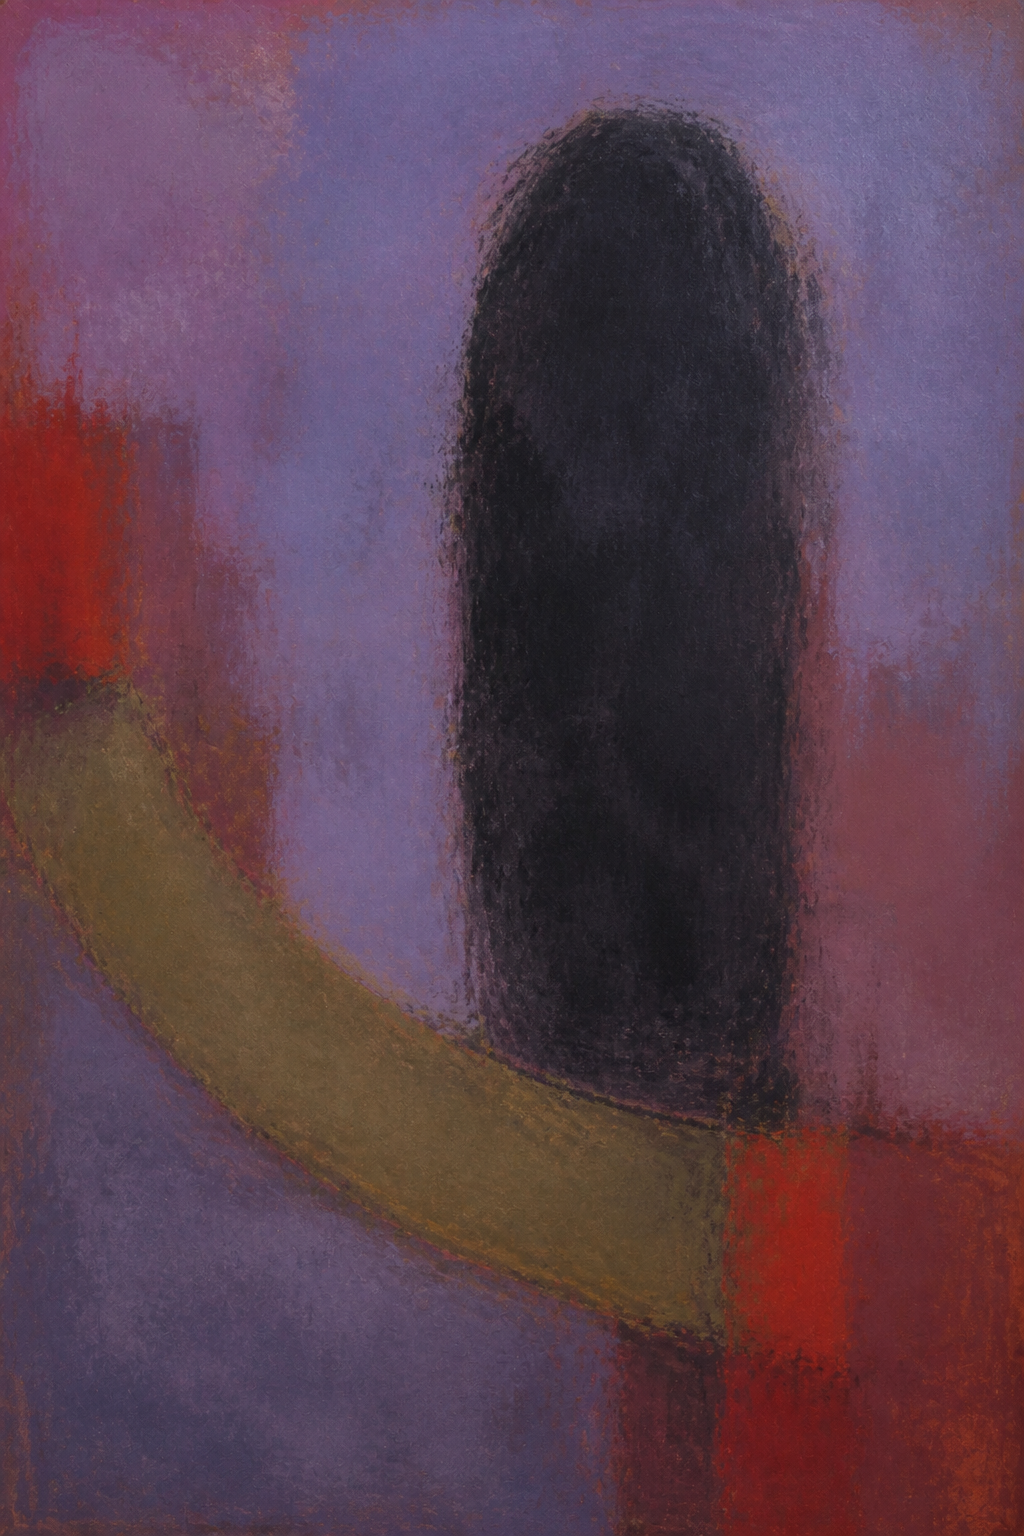
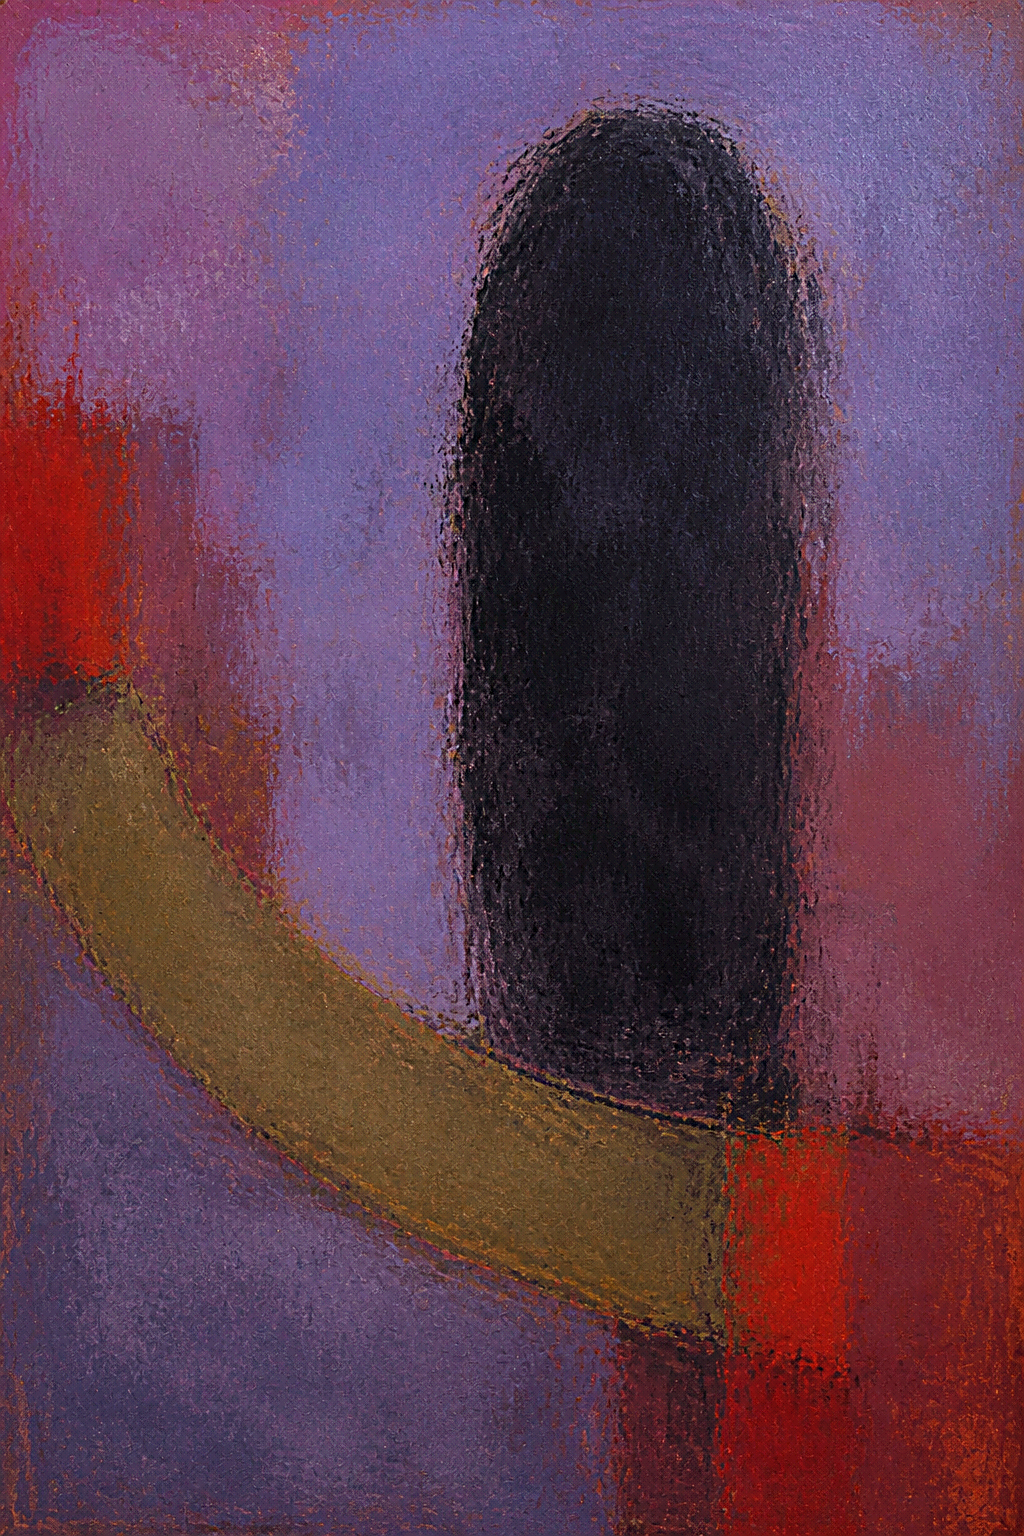
Sharpen background to bring out paint-stroke texture, drop the blur
The blur from the last pass was the wrong direction - it softened
detail instead of adding it. Replaced with unsharp-mask + contrast/
color enhancement applied to the image itself, which brings out the
canvas grain and brush-stroke edges (the tactile "3D paint" look),
and dropped the CSS blur filter since it would undo that.

diff --git a/web/src/app/globals.css b/web/src/app/globals.css
@@ -64,10 +64,10 @@ body {
   flex: 1;
   background-size: cover;
   background-position: center;
-  /* source image is modest-resolution and gets stretched to fill the
-     viewport via cover - a slight blur hides the resulting upscale/
-     compression blockiness instead of letting it show as pixelation */
-  filter: blur(1.5px) saturate(1.15);
+  /* the image itself is now sharpened/contrast-boosted (unsharp mask) to
+     bring out the paint-stroke texture - blurring it here would undo that,
+     so this only nudges saturation, no softening */
+  filter: saturate(1.1);
 }
 
 .art-backdrop::after {
